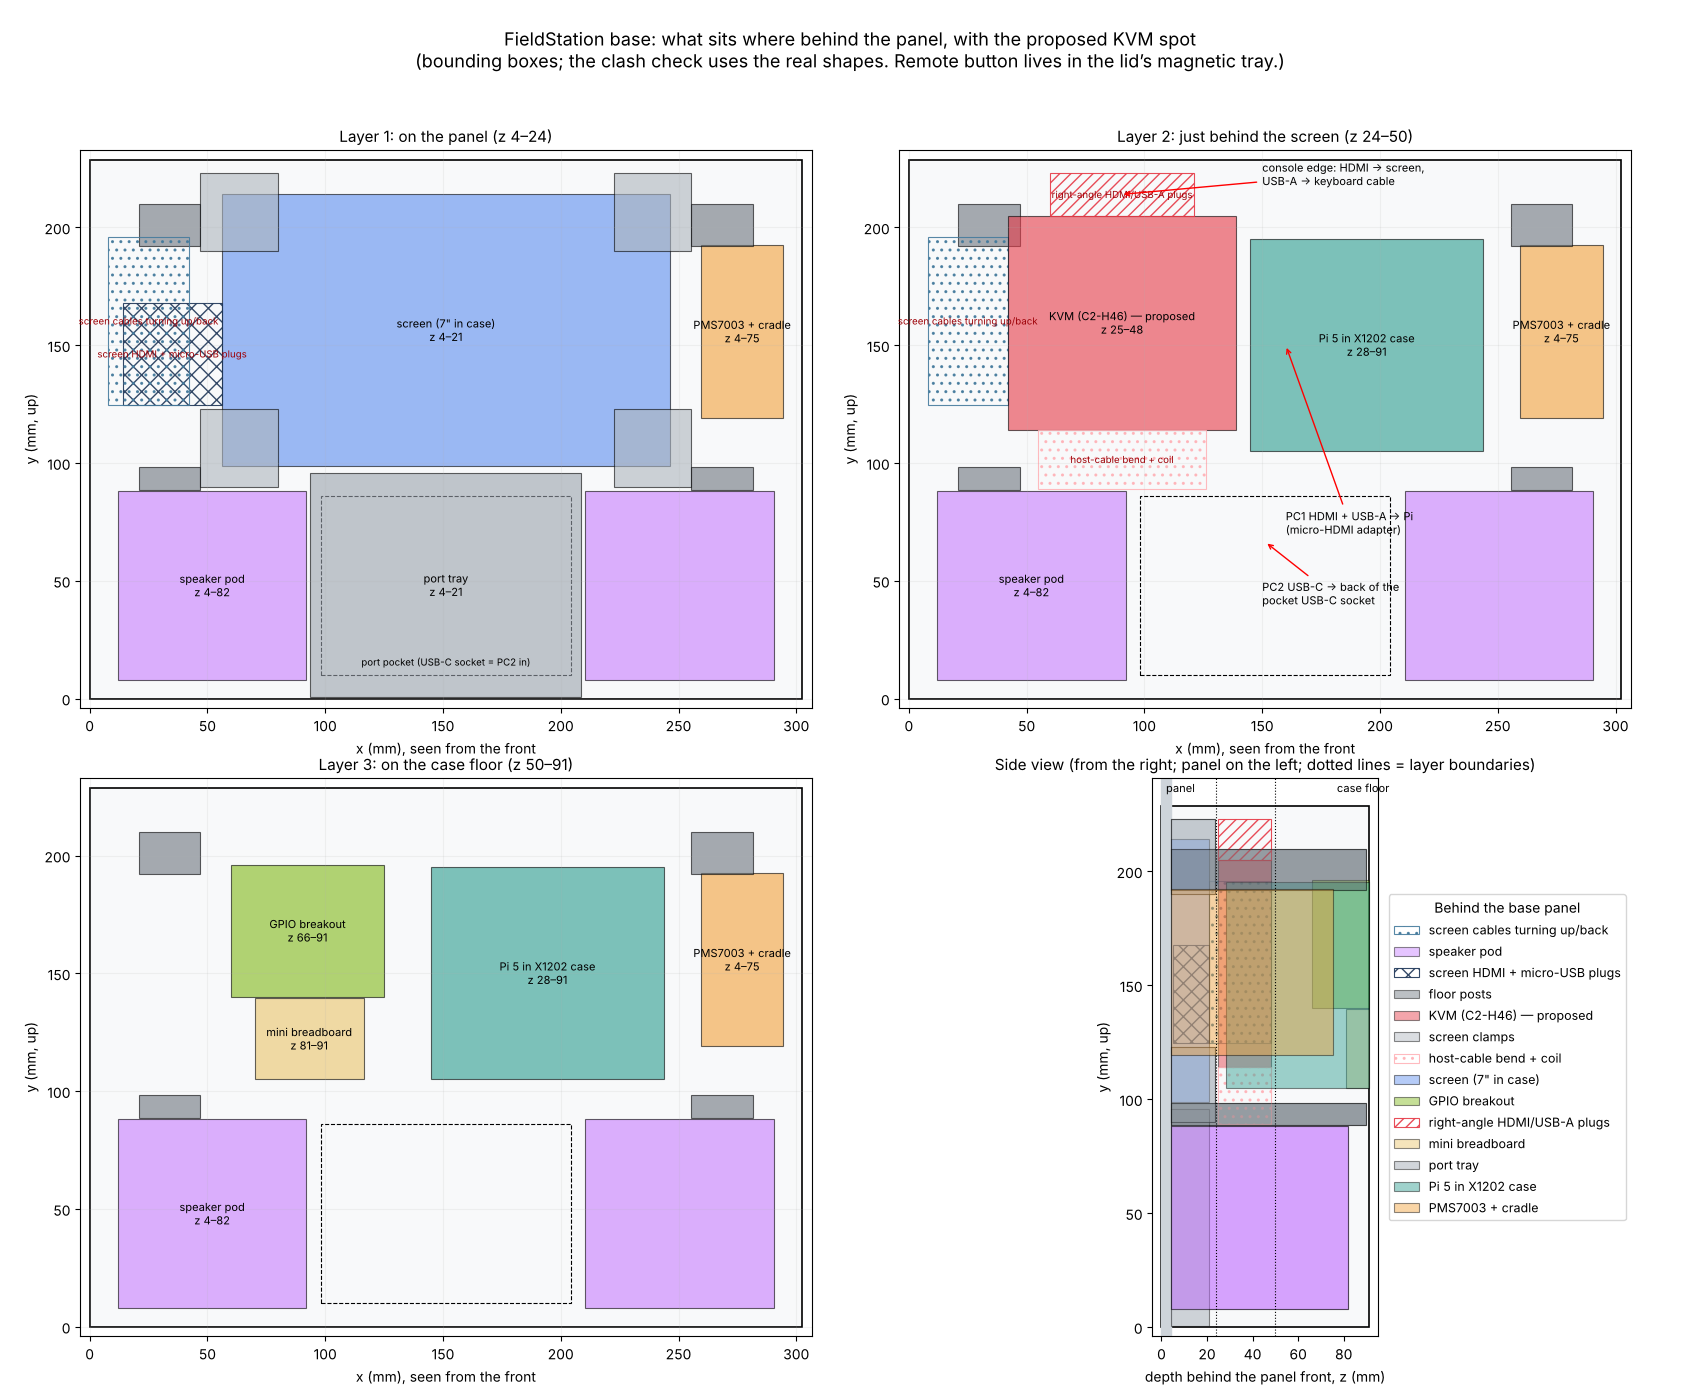
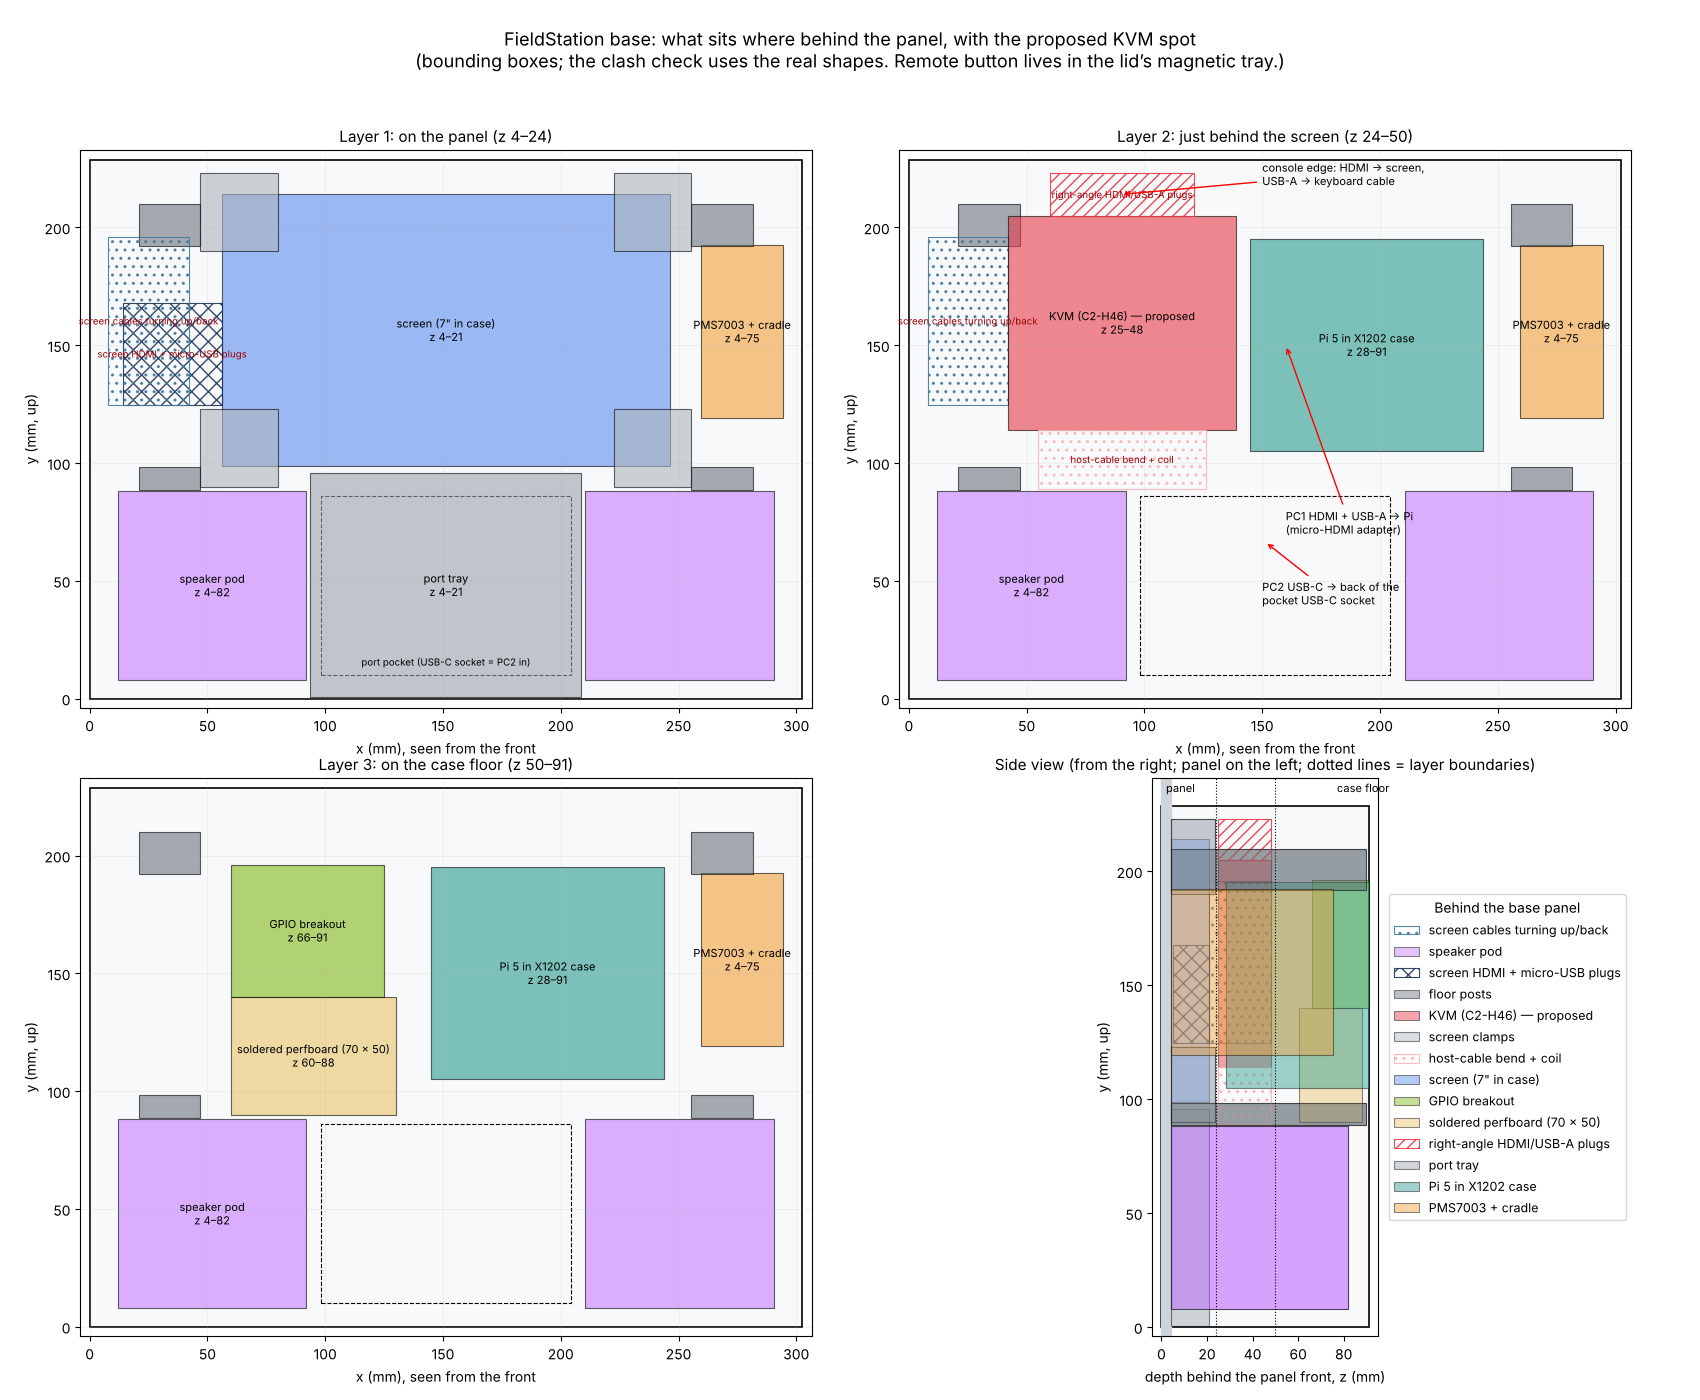
Replace the mini breadboard with the 70 x 50 mm soldered perfboard
Placed on the left of the floor, below the GPIO breakout, on 6 mm spacers
over the future floor plate; parts height assumed up to 20 mm. 0 clashes.

Claude-Session: https://claude.ai/code/session_015Mjdpdd6ef1wmGCnczCrjc

Changed region(s): [[0.1247, 0.7064, 0.2494, 0.7986], [0.7482, 0.7064, 0.8106, 0.7986], [0.8106, 0.7986, 0.9353, 0.8293]]

diff --git a/hardware/src/check.py b/hardware/src/check.py
@@ -22,10 +22,11 @@ parts['air']=_mv(_air)
 parts['screen_plugs']=box(SC_X0-42,SC_Y0+26,T+1,SC_X0,SC_Y0+69,T+SC_T)+box(SC_X0-48,SC_Y0+26,T+SC_T,SC_X0-14,SC_Y0+97,T+44)
 parts['kvm']=box(42,114,25,139,205,48)+box(60,205,25,121,223,48)+box(55,89,25,126,114,48)   # body, right-angle console plugs, host-cable bend
 for n in POSTS: parts['post'+n]=build_post(n).mirror([0,0,1]).translate([0,0,FLOOR_Z-VHB])
-# Pi case on floor, right half behind screen; breakout + mini breadboard left half
+# Pi case on floor, right half behind screen; breakout + 70 x 50 soldered perfboard left half
+# perfboard: on the floor plate (3 mm) + 6 mm spacers, 1.6 mm board, parts up to 20 mm tall (assumed)
 parts['pi']=box(145,105,FLOOR_Z-62.75,145+98.75,105+90.2,FLOOR_Z)
 parts['breakout']=box(60,140,FLOOR_Z-25,60+65,140+56.2,FLOOR_Z)
-parts['breadboard']=box(70,105,FLOOR_Z-10,70+46.4,105+34.5,FLOOR_Z)
+parts['breadboard']=box(60,90,FLOOR_Z-3-6-1.6-20,60+70,90+50,FLOOR_Z-3)
 names=list(parts); bad=0
 for i in range(len(names)):
     for j in range(i+1,len(names)):

diff --git a/hardware/src/placement_sheet.py b/hardware/src/placement_sheet.py
@@ -34,7 +34,7 @@ dash(ax,F['AIR_C'][0]-17.5,F['AIR_C'][1]-37.2,35,63.4)                          
 for n,(x,y) in F['POSTS'].items(): ax.add_patch(Rectangle((x-5,y-5),10,10,fc='#7a5c3a',ec='none',zorder=7))
 dash(ax,145,105,98.75,90.2,col='#888',lw=0.8); ax.text(145+49,105+8,'Pi 5 + UPS case (on case floor)',ha='center',fontsize=7.5,color='#666')
 dash(ax,60,140,65,56.2,col='#888',lw=0.8); ax.text(92,143,'GPIO breakout',ha='center',fontsize=7.5,color='#666')
-dash(ax,70,105,46.4,34.5,col='#888',lw=0.8); ax.text(93,108,'breadboard',ha='center',fontsize=7.5,color='#666')
+dash(ax,60,90,70,50,col='#888',lw=0.8); ax.text(95,93,'perfboard',ha='center',fontsize=7.5,color='#666')
 # numbered tags
 T=[(F['SC_CX'],F['SC_CY']+20,1),(F['SC_X0']+4,F['SC_Y0']+4,2),(F['PODS'][0][0],F['PODS'][0][1],3),(F['PODS'][1][0],F['PODS'][1][1],3),
    (F['PK_CX'],F['PK_CY'],4),(F['AIR_C'][0],F['AIR_C'][1]+10,5),(F['POSTS']['TL'][0],F['POSTS']['TL'][1]+12,6),(F['POSTS']['MR'][0],F['POSTS']['MR'][1]+12,6),

diff --git a/hardware/src/layout_sheet.py b/hardware/src/layout_sheet.py
@@ -15,7 +15,7 @@ items.append(('PMS7003 + cradle',bb(parts['air']),'#f2a23a',None))
 for n in POSTS: items.append(('floor posts' if n=='TL' else None,bb(parts['post'+n]),'#6c757d',None))
 items.append(('Pi 5 in X1202 case',bb(parts['pi']),'#2a9d8f',None))
 items.append(('GPIO breakout',bb(parts['breakout']),'#80b918',None))
-items.append(('mini breadboard',bb(parts['breadboard']),'#e9c46a',None))
+items.append(('soldered perfboard (70 × 50)',bb(parts['breadboard']),'#e9c46a',None))
 cl=[(SC_X0,SC_Y0,1,1),(SC_X0+SC_W,SC_Y0,-1,1),(SC_X0,SC_Y0+SC_H,1,-1),(SC_X0+SC_W,SC_Y0+SC_H,-1,-1)]
 for i,(cx,cy,sx,sy) in enumerate(cl):
     x0,x1=sorted([cx-sx*9,cx+sx*24]); y0,y1=sorted([cy-sy*9,cy+sy*24])
